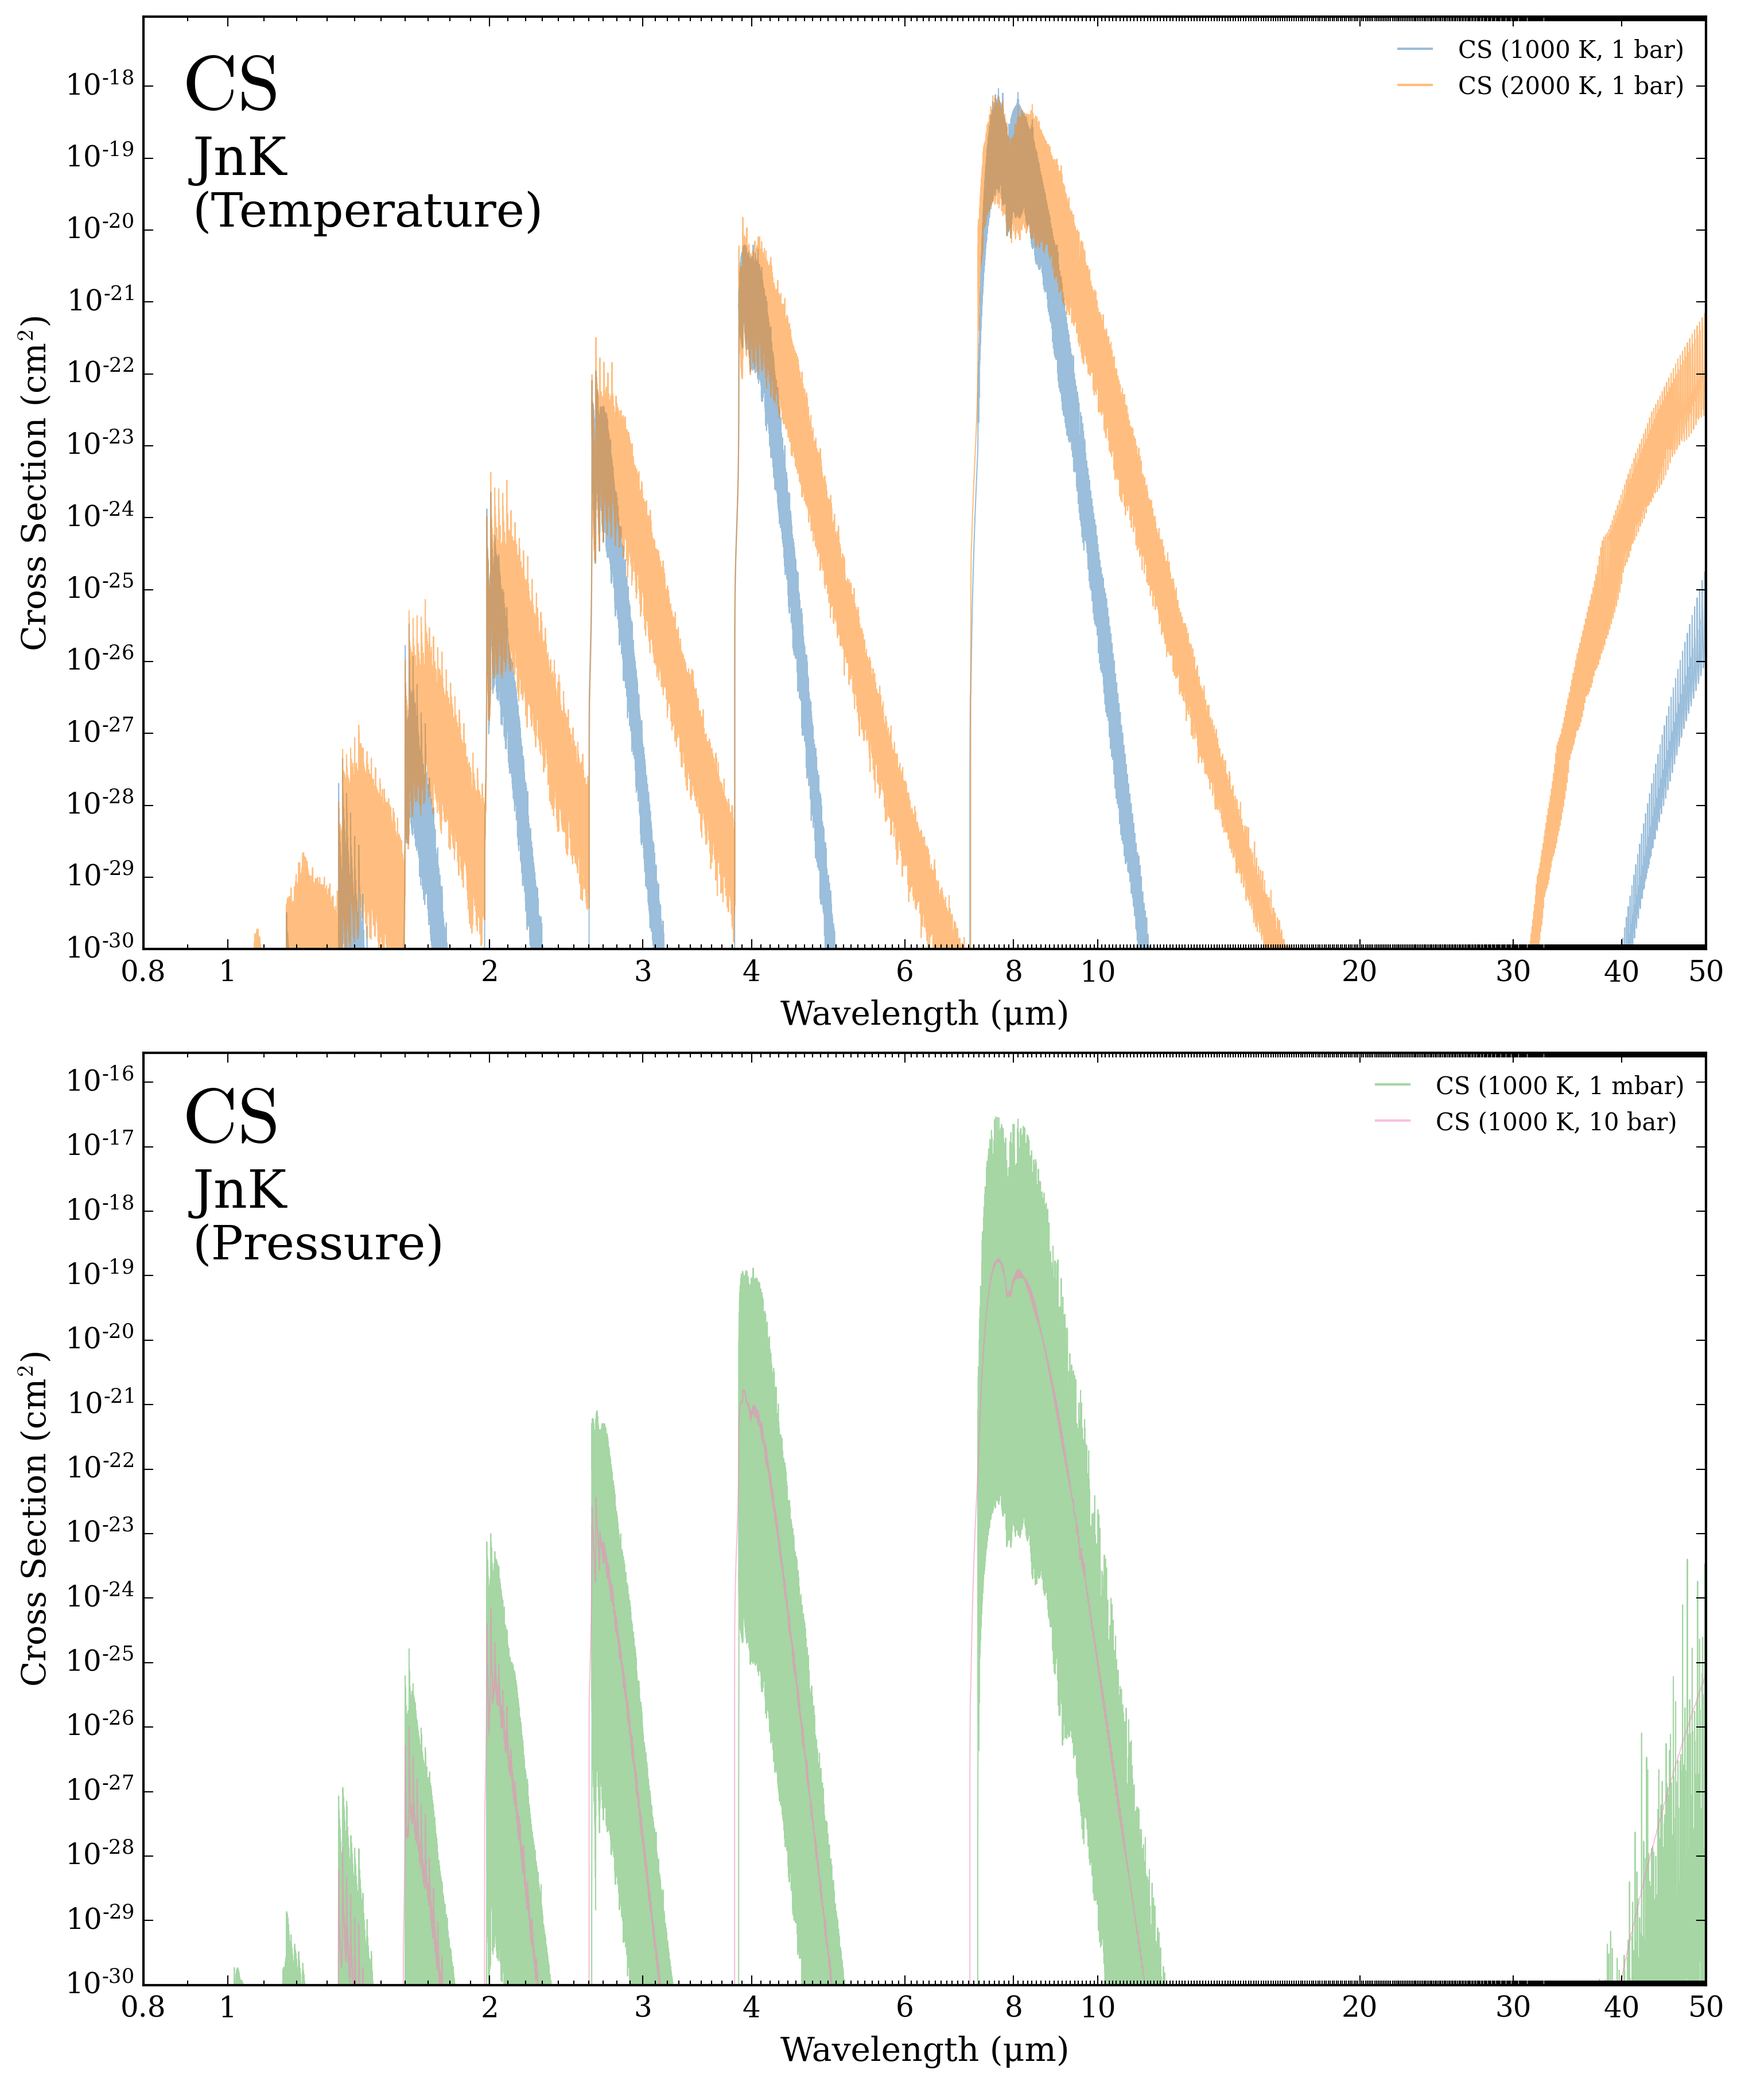
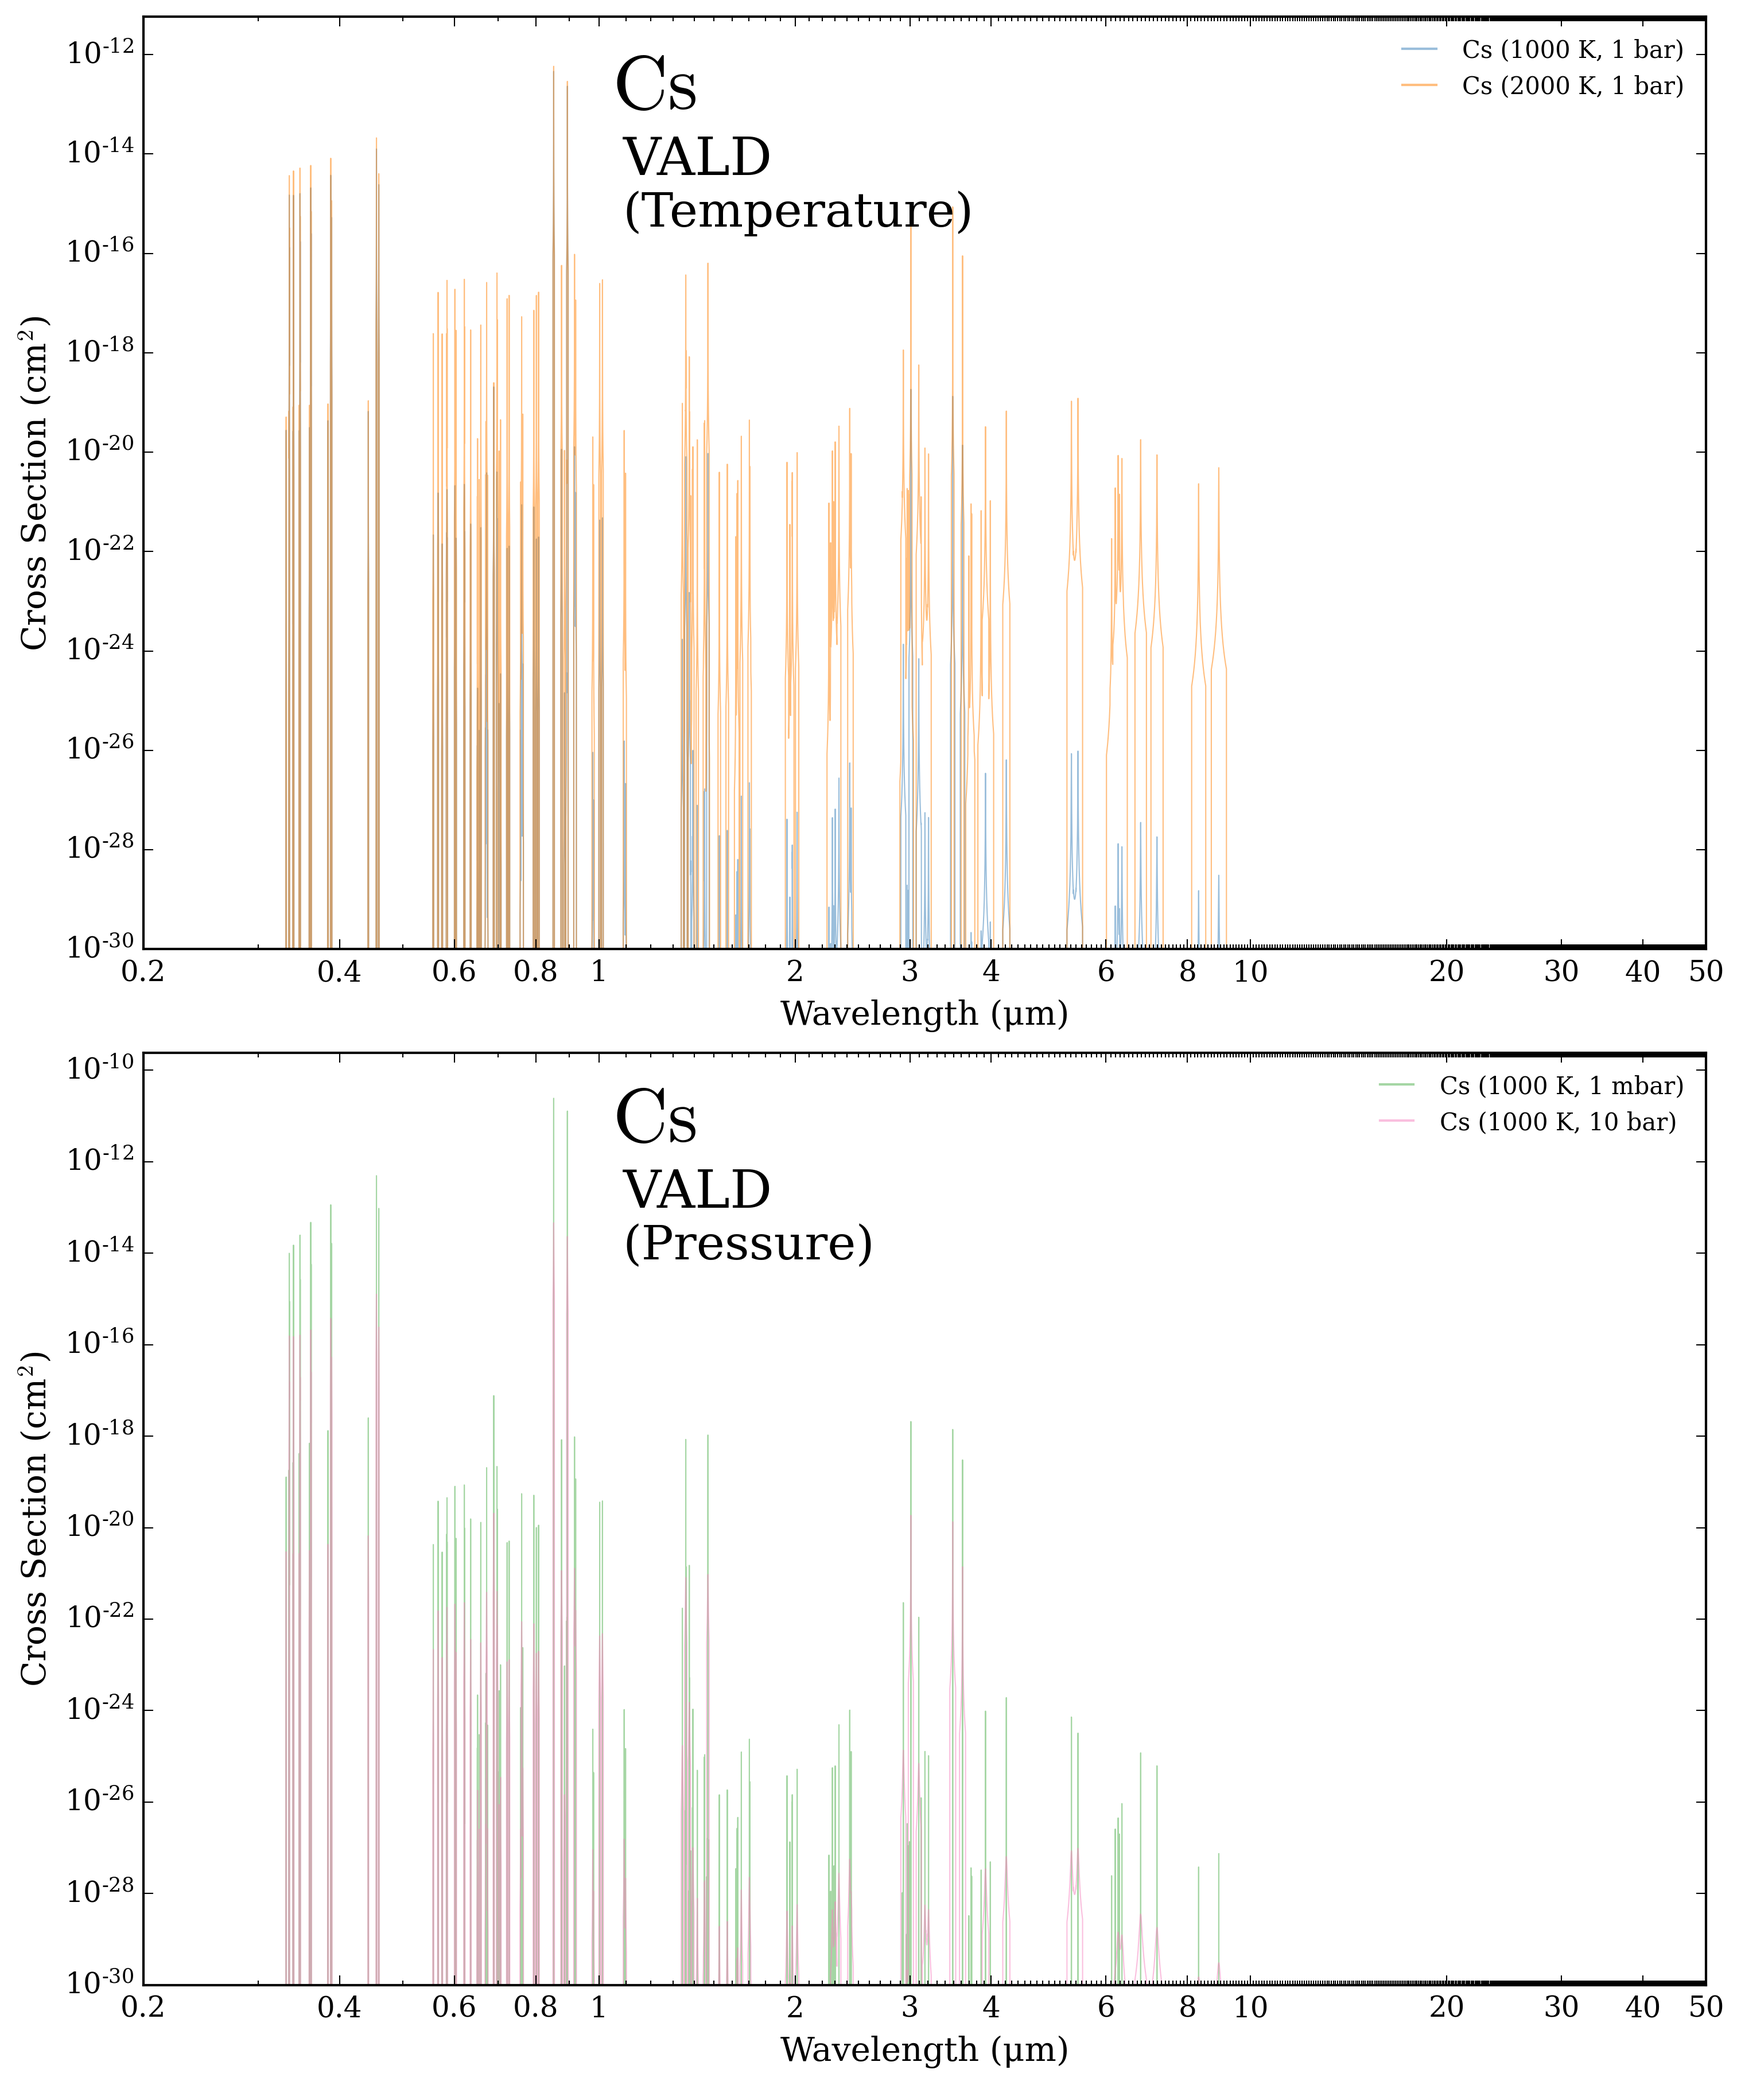
Fix opacity previews for Fe and Cs

diff --git a/docs/content/opacity_database_gas.rst b/docs/content/opacity_database_gas.rst
@@ -1185,7 +1185,7 @@ The current line-by-line opacity sources included in POSEIDON are summarised bel
 
        Vacuum
      - 
-       .. image:: ../_static/opacity_previews/gases/Cs.png
+       .. image:: ../_static/opacity_previews/gases/Fe.png
           :width: 50
           :align: center
 
